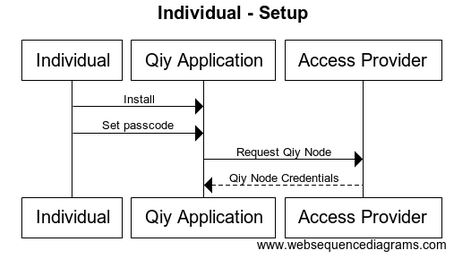
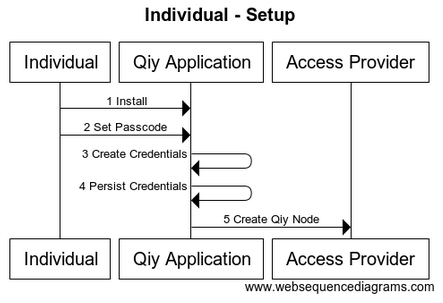
Updated 4.1 Setup (for Individual) of Functional Specification.
As part of #2.

Changed region(s): [[0.0, 0.1217, 0.9977, 0.9734], [0.3228, 0.0, 0.6749, 0.0913]]

diff --git a/Functional Specification.md b/Functional Specification.md
@@ -107,14 +107,16 @@ The flow for a [Data Provider](Definitions.md#data-provider) in the scenario des
 
 ## 4.1 Setup
 
-This section describes a scenario in which an [Individual](Definitions.md#individual) acquires access to the Qiy Trust Network as an introduction to the full description provided in [UC01 Acquire Access to Qiy Trust Network](./use-cases/UC01%20Acquire%20Access%20to%20Qiy%20Trust%20Network.md).
+This section describes a scenario in which an [Individual](Definitions.md#individual) acquires access to the [Qiy Trust Network](Definitions.md#qiy-trust-network) as an introduction to the full description provided in [UC01 Acquire Access to Qiy Trust Network](./use-cases/UC01%20Acquire%20Access%20to%20Qiy%20Trust%20Network.md).
 
 ![Individual - Setup](./images/Individual_-_Setup_-_Functional_Specification.png)
 
-The [Qiy Scheme](Definitions.md#qiy-scheme) allows [Individuals](Definitions.md#individual) to use the [Qiy Trust Network](Definitions.md#qiy-trust-network) in many different ways, but the [Individual](Definitions.md#individual) in this scenario has never used the [Qiy Trust Network](Definitions.md#qiy-trust-network) before and acquires access as follows:
-* The [Individual](Definitions.md#individual) selects a [Qiy Application](Definitions.md#qiy-application).
-* The [Individual](Definitions.md#individual) installs the application on his smart phone and secures access to it by setting a passcode.
-* The [Qiy Application](Definitions.md#qiy-application) creates a [Qiy Node](Definitions.md#qiy-node) for the [Individual](Definitions.md#individual) and persists the [Qiy Node Credentials](Definitions.md#qiy-node-credential).
+The [Qiy Scheme](Definitions.md#qiy-scheme) allows [Individuals](Definitions.md#individual) to use the [Qiy Trust Network](Definitions.md#qiy-trust-network) in many different ways, but the [Individual](Definitions.md#individual) in this scenario has never used the [Qiy Trust Network](Definitions.md#qiy-trust-network) before and acquires access using his smartphone as follows:
+1 The [Individual](Definitions.md#individual) installs a [Qiy Application](Definitions.md#qiy-application) on his smartphone.
+1 The [Individual](Definitions.md#individual) sets a passcode to secure access the [Qiy Application](Definitions.md#qiy-application).
+1 The [Qiy Application](Definitions.md#qiy-application) generates [Qiy Node Credentials](Definitions.md#qiy-node-credential).
+1 The [Qiy Application](Definitions.md#qiy-application) persists [Qiy Node Credentials](Definitions.md#qiy-node-credential).
+1 The [Qiy Application](Definitions.md#qiy-application) uses the public parts of the credentials to create a [Qiy Node](Definitions.md#qiy-node) with the help of an [Access Provider](Definitions.md#access-provider).
 
 After these steps, the [Individual](Definitions.md#individual) has gained access to the [Qiy Trust Network](Definitions.md#qiy-trust-network) and he can use it by means of the [Qiy Application](Definitions.md#qiy-application).
 
@@ -349,10 +351,11 @@ participant "Individual" as User
 participant "Qiy Application" as App
 participant "Access Provider" as AP
 
-User->App  : Install
-User->App  : Set passcode
-App->AP : Request Qiy Node
-AP-->App: Qiy Node Credentials
+User->App  : 1 Install
+User->App  : 2 Set Passcode
+App->App: 3 Create Credentials
+App->App: 4 Persist Credentials
+App->AP : 5 Create Qiy Node
 ```
 
 
